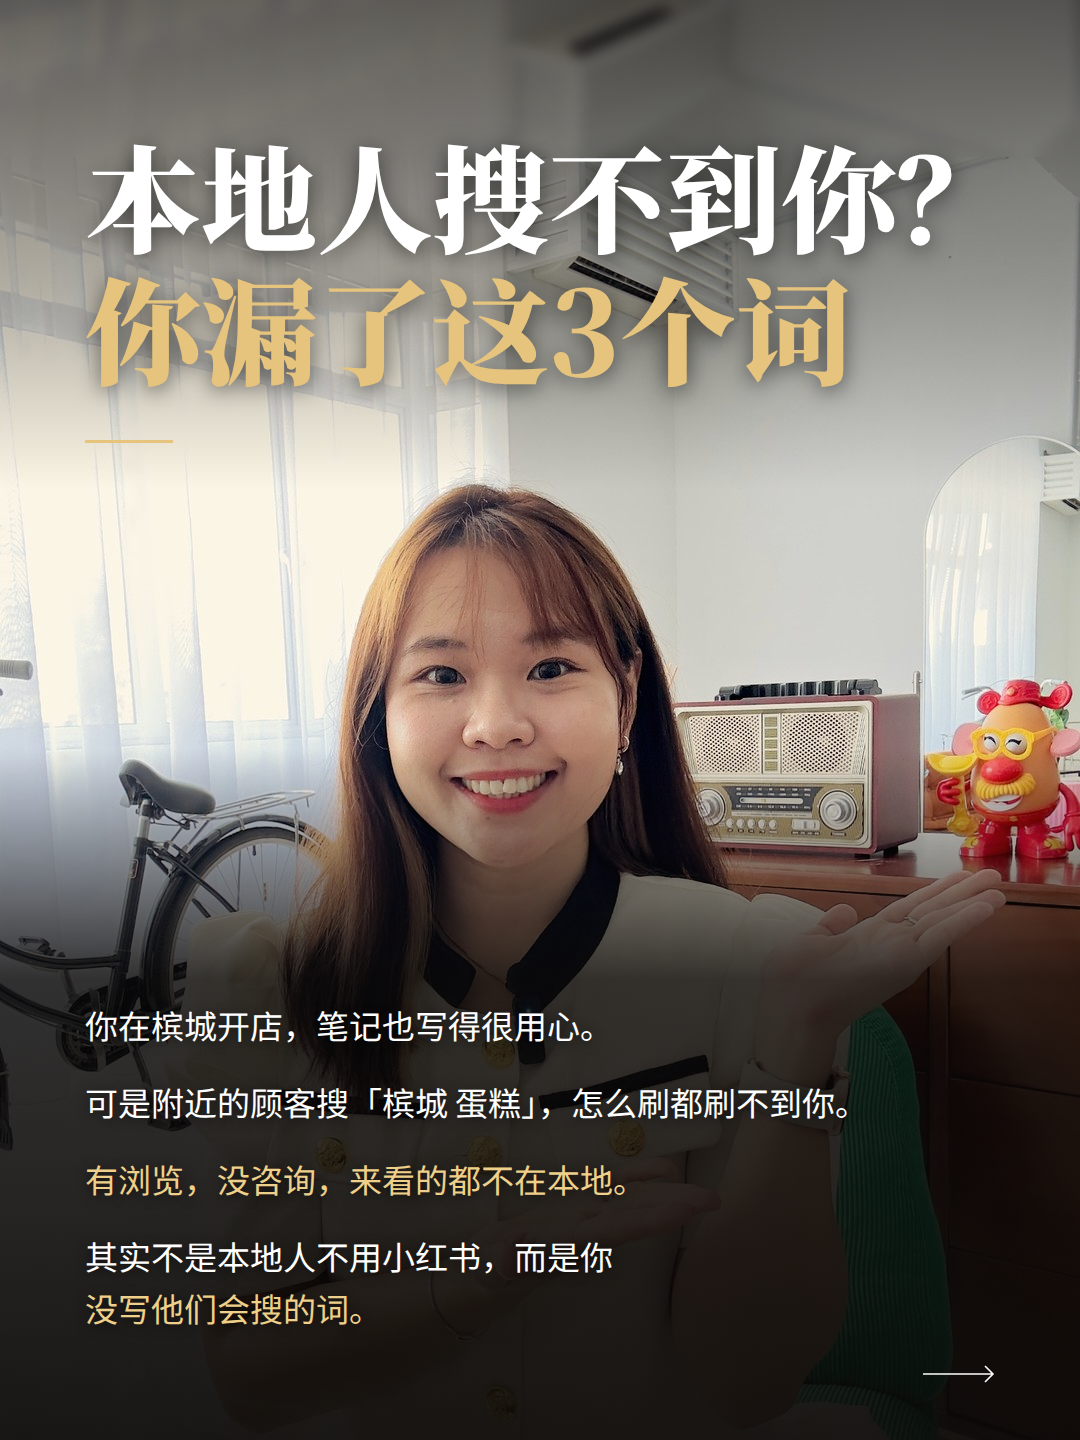
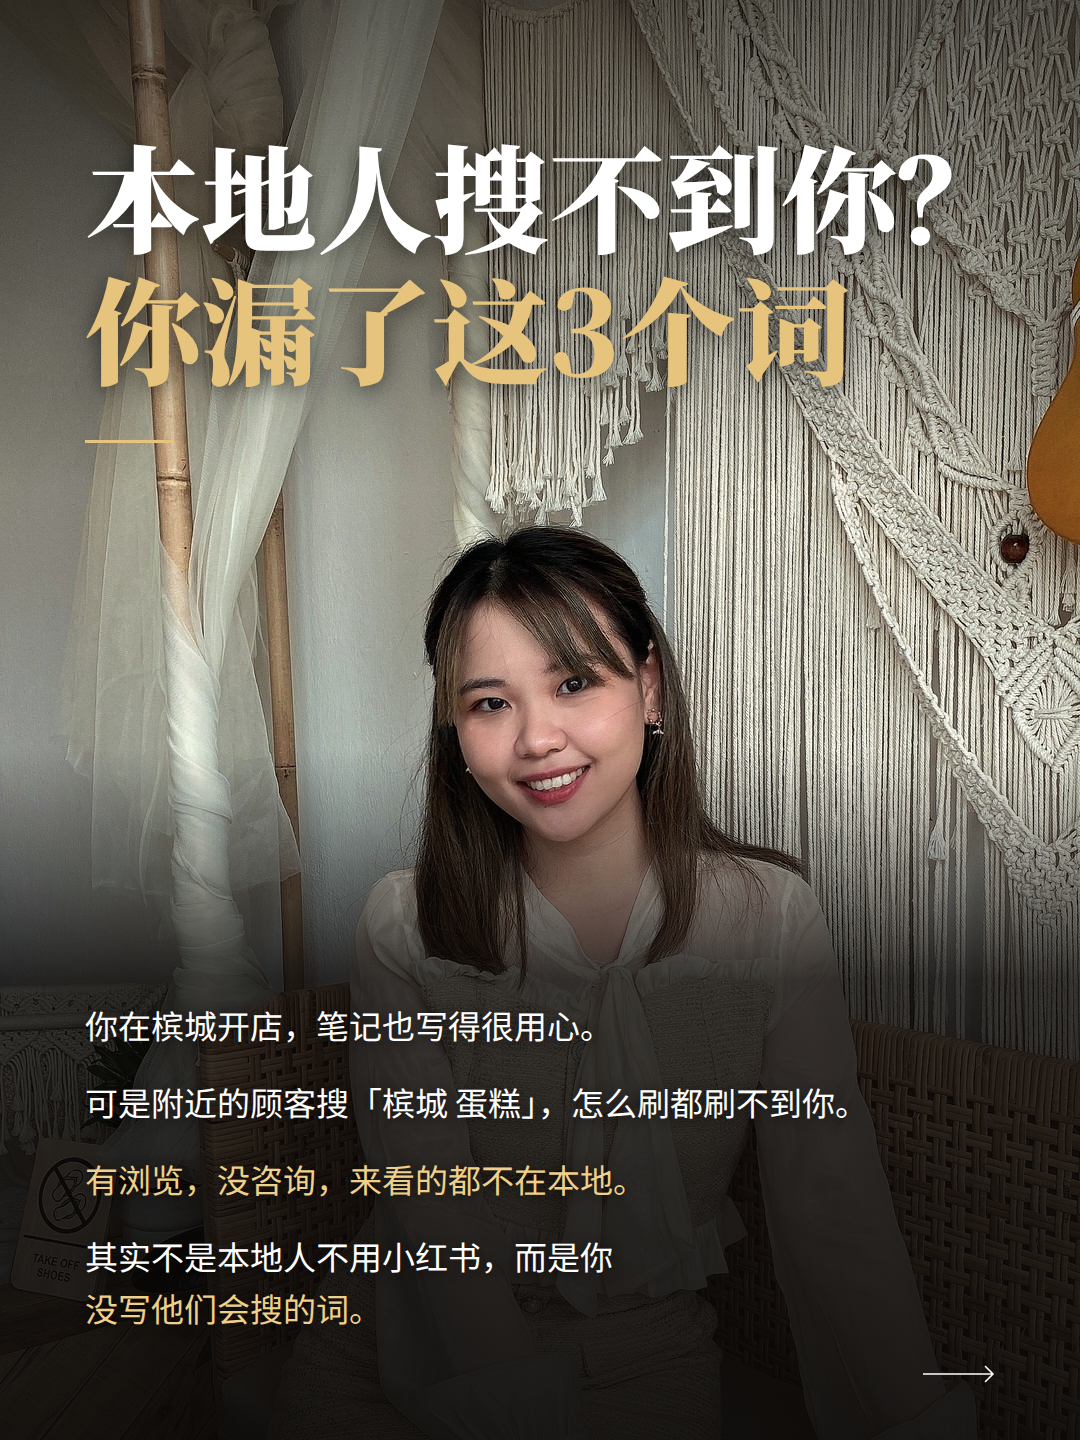
Carousel ep2: new cover and summary photos in a different style from ep1
Claude-Session: https://claude.ai/code/session_01EMSJEu2jDT48Z9zWofQiyt

diff --git a/carousel/ep2/content.py b/carousel/ep2/content.py
@@ -3,7 +3,7 @@
 # 每页：t1 白（「」内用金）、t2 金；blocks: ("sec", 标签, [("p"|"b", 文字)]) / ("call", 文字) / ("para", 文字)
 import re
 SLIDES = [
- dict(n=1, kind="cover", photo="IMG_6765.DNG", head=(.35,.62,.24,.50), zoom=1.0, t1="本地人搜不到你？", t2="你漏了这3个词", blocks=[
+ dict(n=1, kind="cover", photo="beauty_1644473982722.JPG", head=(.39,.57,.31,.47), zoom=1.4, t1="本地人搜不到你？", t2="你漏了这3个词", blocks=[
   ("para","你在槟城开店，笔记也写得很用心。"),
   ("para","可是附近的顾客搜「槟城 蛋糕」，怎么刷都刷不到你。"),
   ("para","【黄】有浏览，没咨询，来看的都不在本地。【/黄】"),
@@ -33,7 +33,7 @@ SLIDES = [
   ("sec","后果",[("p","顾客点进主页，【黄】看不出你在哪、做什么。【/黄】")]),
   ("sec","正确做法",[("p","名字或简介写清：地区 + 做什么 + 帮谁"),("b","例如：槟城手作蛋糕｜帮妈妈们办生日会")]),
   ("call","【黄】笔记让人找到你，主页让人记住你。【/黄】")]),
- dict(n=7, kind="summary", photo="IMG_6767.DNG", head=(.35,.63,.24,.50), zoom=1.0, t1="这3个词，", t2="你漏了哪一个？", blocks=[
+ dict(n=7, kind="summary", photo="IMG_7869.JPG", head=(.48,.70,.10,.29), zoom=1.3, t1="这3个词，", t2="你漏了哪一个？", blocks=[
   ("list",[("01","本地词，写出你在哪"),("02","人群词，点名写给谁"),("03","问题词，用顾客的话"),("04","标题、正文、标签都要放"),("05","主页简介也写上地区")]),
   ("para","留言告诉我你在哪个城市、做什么，我帮你想一个标题。"),
   ("para","【黄】收藏这篇，写笔记前照着检查。【/黄】"),
